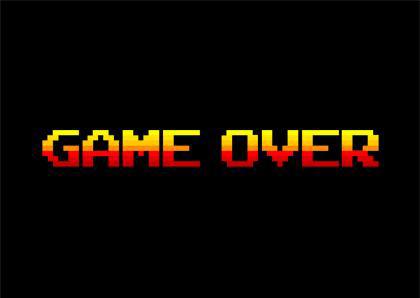
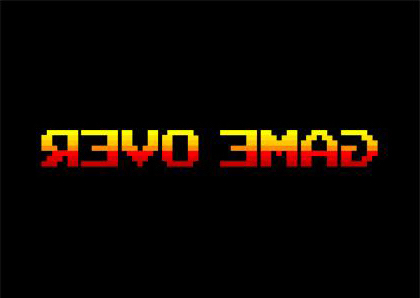
flipped jpg so it's not backwards

Changed region(s): [[0.0929, 0.4228, 0.4952, 0.5738], [0.5262, 0.4228, 0.9286, 0.5738]]

diff --git a/game.js b/game.js
@@ -379,7 +379,7 @@ function initScene(){
 
 function createLoseScene(){
 		loseScene = initScene();
-		loseText = createSkyBox('lose.jpg',10);
+		loseText = createSkyBox('lose.jpg',7);
 		loseScene.add(loseText);
 		var light1 = createPointLight();
 		light1.position.set(0,200,20);
@@ -572,10 +572,10 @@ function animate() {
     renderer.clear();
   //  renderer.render(backgroundScene,backgroundCamera);
 	if (gameState.energy <1){
-		console.log("we lose")
+		console.log("we lose");
 		renderer.render( loseScene, loseCamera );
 	} else {
-		renderer.render( scene, camera );		
+		renderer.render( scene, camera );
 	}
 		//draw heads up display ..
 		var gameOver = "";
